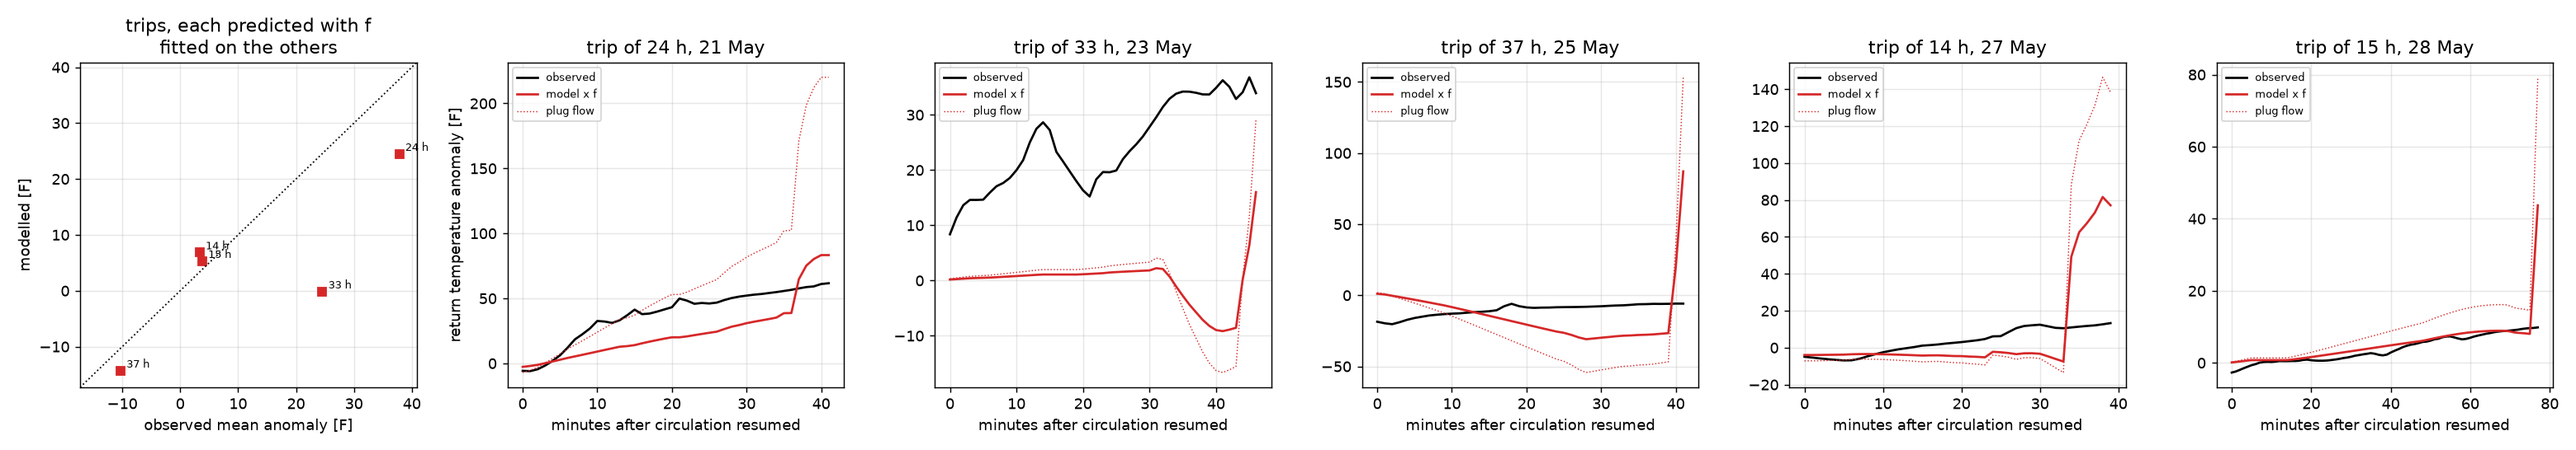
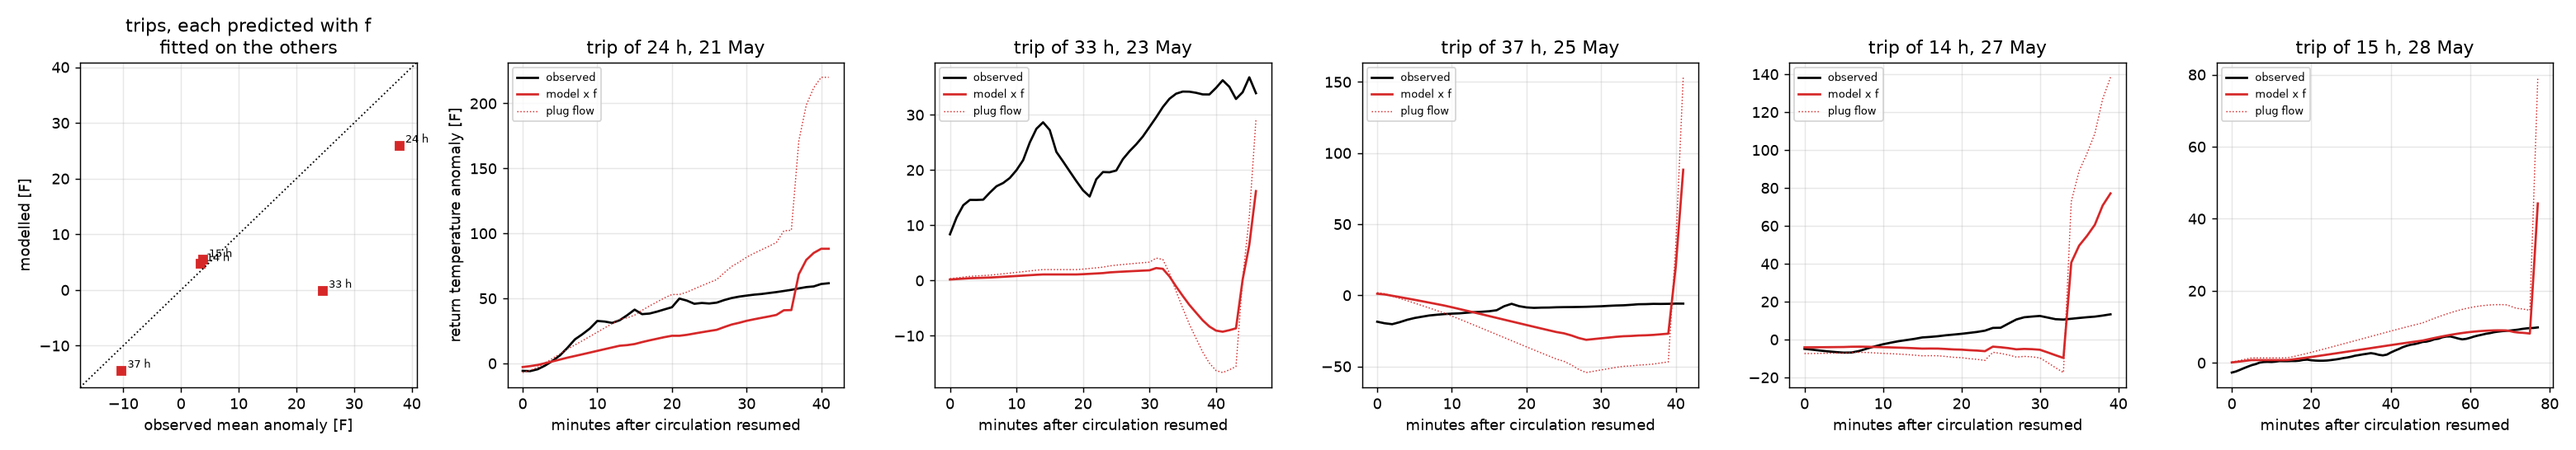
Reject unconverged FORGE trip calculations and add solver seeds
The pinned results of the trip check came from a Model 1 solve that had
not converged. The circulation before the 13.5-hour trip of 27 May (BHA13
at 9,600 ft, 675 gal/min) failed from all four starting profiles, and the
last attempt, with 385 C at the bit, was used. An unconverged solve
returns an intermediate iterate that varies with floating-point behaviour.
This produced no-node factors of 0.357 and 0.391 in different
environments and caused intermittent CI failures.

Two starting profiles are now tried after the four (SEED_YEARS); from them
the solve converges to 106 C at the bit, in line with the neighbouring
flows and depths, and the check refuses an unconverged circulation. The
repinned factors are 0.555 and 0.391 without the fluid node, the misfit
12.4 and 13.3 F; the tolerance on the no-node factor is back to 0.02.

diff --git a/src/validate_forge_pauses.py b/src/validate_forge_pauses.py
@@ -134,6 +134,11 @@ def circulating_profile(ts, bit_ft, flow, tin, dp):
     if key not in _cache:
         s = dict(time=ts, bit_ft=bit, flow_gpm=key[2], T_in_F=key[3], motor_dp_psi=max(dp, 0.0))
         r, g = v.solve_at(run, s, 1.0, K_IDP_UNFITTED)
+        if not r["success"]:
+            # an unconverged solve is the solver's last iterate, which depends on
+            # floating-point detail and once made this check vary between machines
+            raise RuntimeError(f"Model 1 did not converge for {run} at {bit:.0f} ft, "
+                               f"{key[2]} gal/min, {key[3]} F")
         z = r["z"]
         ga = g.at(np.clip(z, 0.5, g.md_bit - 0.5))
         h = m1.h_dittus(r["m_dot"], ga["A_ann"], ga["Dh_ann"], r["Tu"], m1.P_of_z(ga["tvd"]))

diff --git a/tests/test_forge_pauses.py b/tests/test_forge_pauses.py
@@ -19,10 +19,7 @@ def test_pause_check_is_unchanged(results):
         pinned = json.load(fh)
     c, c0 = results
     assert c["f"] == pytest.approx(pinned["f"], abs=0.02)
-    # The no-node factor depends on the Python version: 0.357 on Python 3.14.4
-    # (with the lock file's packages, and with numpy 2.4.4 and scipy 1.17.1),
-    # 0.391 on Python 3.11, 3.12 and 3.13. The tolerance covers that spread.
-    assert c0["f"] == pytest.approx(pinned["f_no_node"], abs=0.04)
+    assert c0["f"] == pytest.approx(pinned["f_no_node"], abs=0.02)
     for now, was in zip(c["rows"] + c0["rows"], pinned["rows"] + pinned["rows_no_node"]):
         assert now["obs"] == pytest.approx(was["obs"], abs=0.5)
         assert now["mod"] == pytest.approx(was["mod"], abs=1.0)

diff --git a/src/model1_coupled.py b/src/model1_coupled.py
@@ -124,7 +124,9 @@ def smooth_exposure(exposure, md_bit, dz=25.0):
     return lambda z: np.exp(f(np.clip(np.asarray(z, float), 0.0, md_bit)))
 
 
-SEED_YEARS = (1 / 365, 1 / 52, 1 / 12, 1.0)
+# tried in order; the last two converge where the first four do not, as for
+# FORGE 16B's BHA13 at 9,600 ft and 675 gal/min (validate_forge_pauses.py)
+SEED_YEARS = (1 / 365, 1 / 52, 1 / 12, 1.0, 1 / 730, 3.0)
 
 
 def solve_seeded(exposure, breaks=(), seeds=SEED_YEARS, **kw):

diff --git a/README.md b/README.md
@@ -67,7 +67,7 @@ Eavor estimated from the data how each change between the first two runs moved t
 
 *Fig. 2. Left: modelled MWD temperature while drilling each run (points), against the measured run averages (bars) and BHA 12's levelled range (shaded). Right: the change between the first two runs, one factor at a time, from the model and from Eavor's estimate.*
 
-The reheating of the wall when circulation stops is calculated with a transient model of conduction in the rock around the hole, described in Section 4.1. It was compared with the return temperature recorded in FORGE 16B when circulation resumed after each of the five trips in the trial (`validate_forge_pauses.py`). While the pumps are off, the fluid in the hole drifts towards the temperature of the rock around it, warming in the deep part of the hole and cooling near surface, and when they restart the annulus column reaches surface over the first bottoms-up, shallowest fluid first. In the model, the rock at points every 200 ft along the hole is taken through its own history of circulation and pauses from the rig's minute-by-minute record, and the column of fluid temperatures is pushed to surface as plug flow. Plug flow ignores the heat the returning fluid exchanges with the string and the rock on its way up, so one factor scales the modelled anomaly in the return temperature. Fitted on four of the five trips and used to predict the fifth, in turn, the factor is 0.55, and the predicted mean anomalies differ from the observed ones by 13 °F (root mean square), against observed anomalies of −10 to +38 °F (Fig. 3). The largest miss is the 33-hour trip, observed at +25 °F and predicted at 0 °F. With the fluid in the hole taken at the wall's temperature, the sensitivity used for the sites, the factor is 0.36 and the misfit 16 °F. The pauses with the bit on bottom could not be used, as most were for gyroscopic surveys or circulation at reduced flow, and their first bottoms-up runs into the next operation. The modelled curves are dominated by the arrival of the hot fluid from the bottom of the hole, which the observed curves do not show, and the fit barely separates the base case from the case with no fluid in the hole. The comparison is therefore too coarse to confirm or reject the reheating model, which rests on its analytic checks (Section 4.1). It is nonetheless the only field record of reheating found in the public data.
+The reheating of the wall when circulation stops is calculated with a transient model of conduction in the rock around the hole, described in Section 4.1. It was compared with the return temperature recorded in FORGE 16B when circulation resumed after each of the five trips in the trial (`validate_forge_pauses.py`). While the pumps are off, the fluid in the hole drifts towards the temperature of the rock around it, warming in the deep part of the hole and cooling near surface, and when they restart the annulus column reaches surface over the first bottoms-up, shallowest fluid first. In the model, the rock at points every 200 ft along the hole is taken through its own history of circulation and pauses from the rig's minute-by-minute record, and the column of fluid temperatures is pushed to surface as plug flow. Plug flow ignores the heat the returning fluid exchanges with the string and the rock on its way up, so one factor scales the modelled anomaly in the return temperature. Fitted on four of the five trips and used to predict the fifth, in turn, the factor is 0.56, and the predicted mean anomalies differ from the observed ones by 12 °F (root mean square), against observed anomalies of −10 to +38 °F (Fig. 3). The largest miss is the 33-hour trip, observed at +25 °F and predicted at 0 °F. With the fluid in the hole taken at the wall's temperature, the sensitivity used for the sites, the factor is 0.39 and the misfit 13 °F. The pauses with the bit on bottom could not be used, as most were for gyroscopic surveys or circulation at reduced flow, and their first bottoms-up runs into the next operation. The modelled curves are dominated by the arrival of the hot fluid from the bottom of the hole, which the observed curves do not show, and the fit barely separates the base case from the case with no fluid in the hole. The comparison is therefore too coarse to confirm or reject the reheating model, which rests on its analytic checks (Section 4.1). It is nonetheless the only field record of reheating found in the public data.
 
 ![Return temperature after each FORGE 16B trip, observed and modelled](figures/forge_pauses.png)
 

diff --git a/CHANGELOG.md b/CHANGELOG.md
@@ -113,13 +113,22 @@ now 0.94 to 0.98 SG at the targets, against the 1.02 SG of the constant
   (1.142). At United Downs the flow ceiling rises from 60 to 70 kg/s and the
   Shmin margin at friction 1.0 from 2.2 to 2.6% (SHmax held) and 4.6 to 5.8%
   (scaled). Larderello does not change.
-- **The FORGE trip test.** The no-node fit factor is 0.357 on Python 3.14.4,
-  both with the lock file's packages (numpy 2.5.3, scipy 1.18.1) and from a
-  clean clone with numpy 2.4.4 and scipy 1.17.1, and the reviewers found
-  0.391 on Python 3.11, 3.12 and 3.13. v1.3.2 put the difference down to
-  Python 3.11 alone. The test's tolerance now covers the spread, and the
-  Pason times are read as UTC so that the pinned epochs do not depend on the
-  machine's time zone.
+- **The FORGE trip test.** The pinned results came from a Model 1 solve that
+  had not converged: the circulation before the 13.5-hour trip of 27 May
+  (BHA13 at 9,600 ft, 675 gal/min) failed from all four starting profiles,
+  and the last unconverged attempt, with 385 C at the bit, was used. What an
+  unconverged solve returns depends on floating-point detail, so the check
+  gave different results on different machines: the no-node factor was 0.357
+  here and 0.391 for the reviewers, and the continuous integration passed
+  and failed the same code on different runners. v1.3.2 put the difference
+  down to the Python version, which was wrong. Two more starting profiles
+  are tried after the four, and from them the solve converges to 106 C at the
+  bit, in agreement with the neighbouring flows and depths; the check now
+  refuses an unconverged circulation. The repinned factors are 0.555 (0.549
+  before) and 0.391 without the fluid node (0.357), the misfit 12.4 and
+  13.3 F (12.8 and 16.3), and the 13.5-hour trip's modelled anomaly falls
+  from 12.3 to 8.4 F. The Pason times are now read as UTC, so that the
+  pinned epochs do not depend on the machine's time zone.
 
 ## v1.3.2: the margins on the window (October 2026)
 
